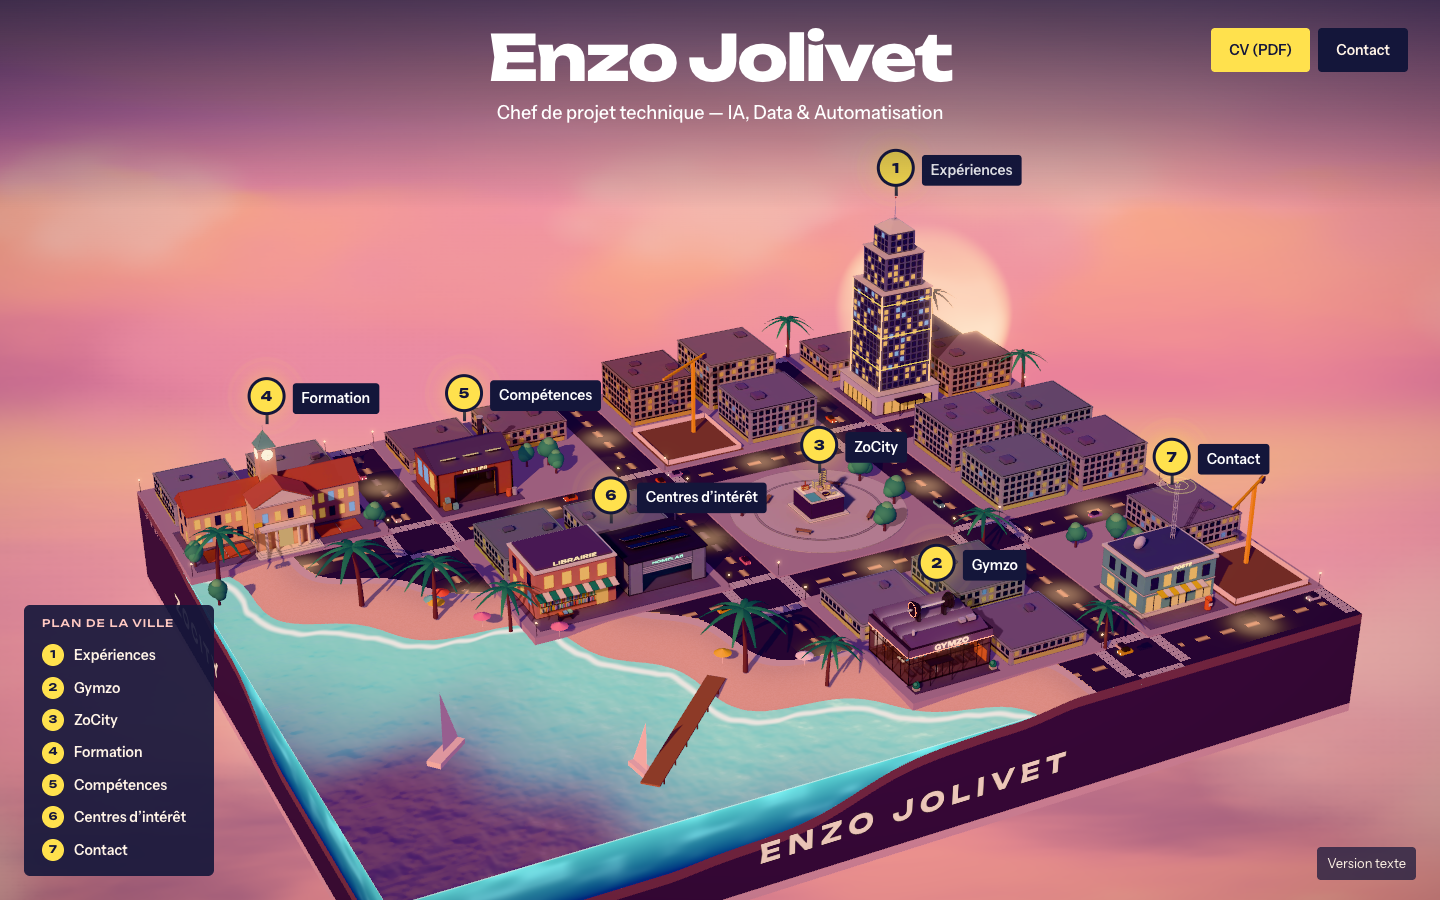
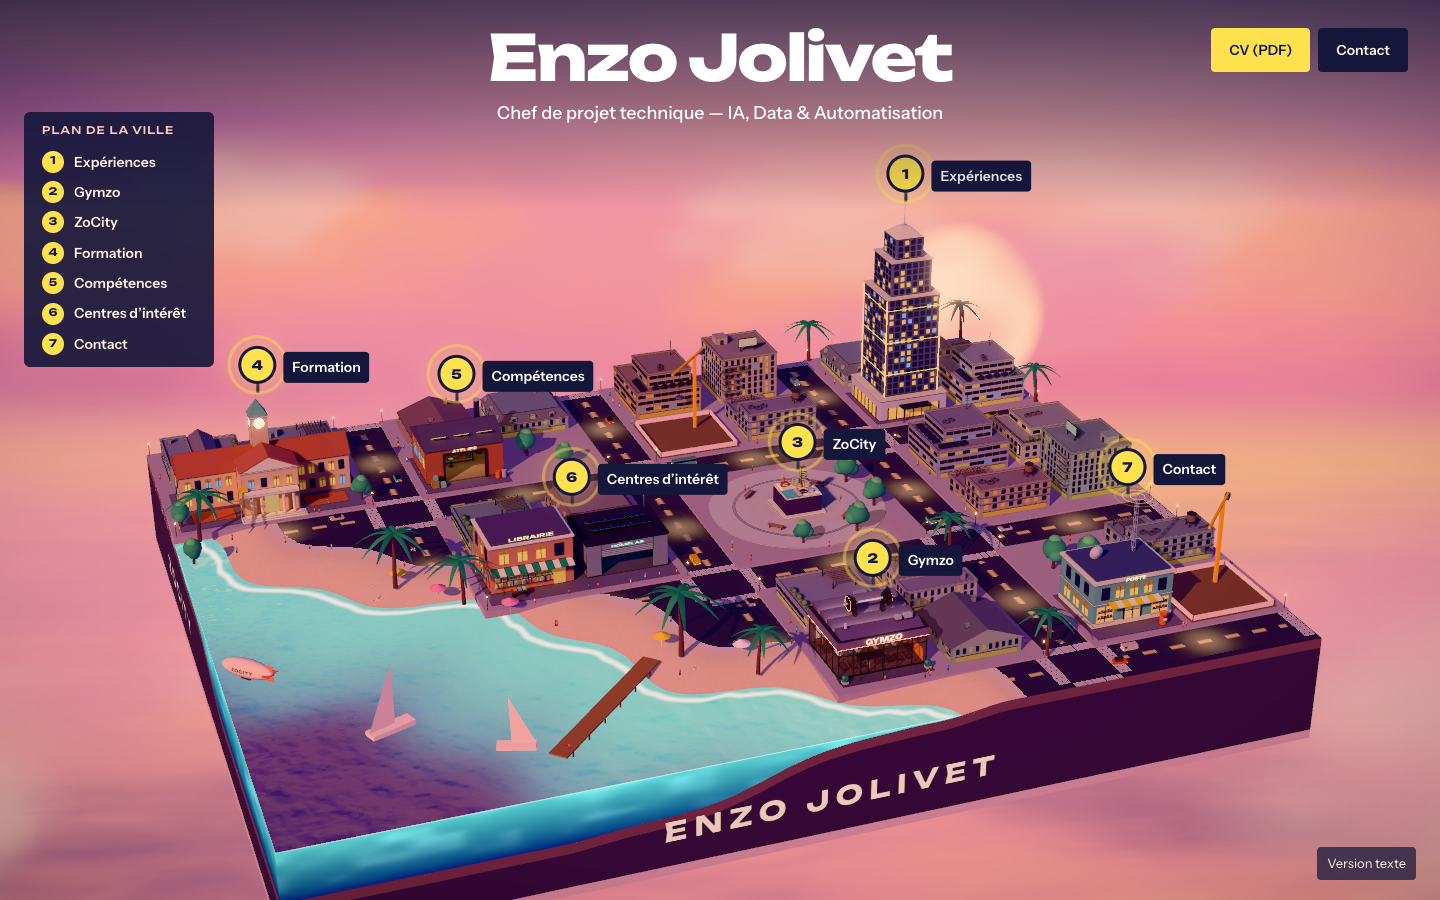
docs: refresh the README screenshots and describe the camera

diff --git a/README.md b/README.md
@@ -4,7 +4,7 @@
 
 Mon portfolio est une ville miniature au crépuscule, posée sur un socle au-dessus d'une mer de nuages.
 La caméra descend du ciel, puis chaque bâtiment ouvre une section : un marqueur numéroté dessus, un clic, et on
-plonge au niveau de la rue.
+plonge au niveau de la rue. La ville se laisse tourner, approcher, et une fois dans la rue on peut regarder autour de soi.
 
 ![La ville à l'arrivée](docs/screenshots/city-arrival.png)
 
@@ -78,6 +78,9 @@ son style et son marqueur qui le distinguent, pas sa taille. Tous les modèles p
 - **Préparation derrière l'écran de chargement.** Modèles, polices, shaders, textures et premières images sont traités
   avant la descente, qui ne démarre qu'une fois les images fluides. Une machine lente passe en résolution inférieure à
   ce moment-là, là où le changement ne se voit pas.
+- **Cadrage par décalage de l'objectif.** Quand un panneau s'ouvre, la caméra reste à l'endroit prévu pour le lieu :
+  c'est la projection qui se décale pour placer le bâtiment dans la partie libre de l'écran, à côté du panneau sur
+  ordinateur, au-dessus sur téléphone. Le mobilier urbain dégagé le long de chaque ligne de vue le reste donc toujours.
 - **Une ville qui vit, sans simulateur.** Les véhicules suivent le réseau des rues déduit de la grille et du rivage,
   s'attendent aux carrefours et laissent passer les piétons. Les passants ne marchent que là où l'emprise réelle des
   bâtiments, lue dans la scène au chargement, laisse la place : un bâtiment qui change ne se fait jamais traverser.
